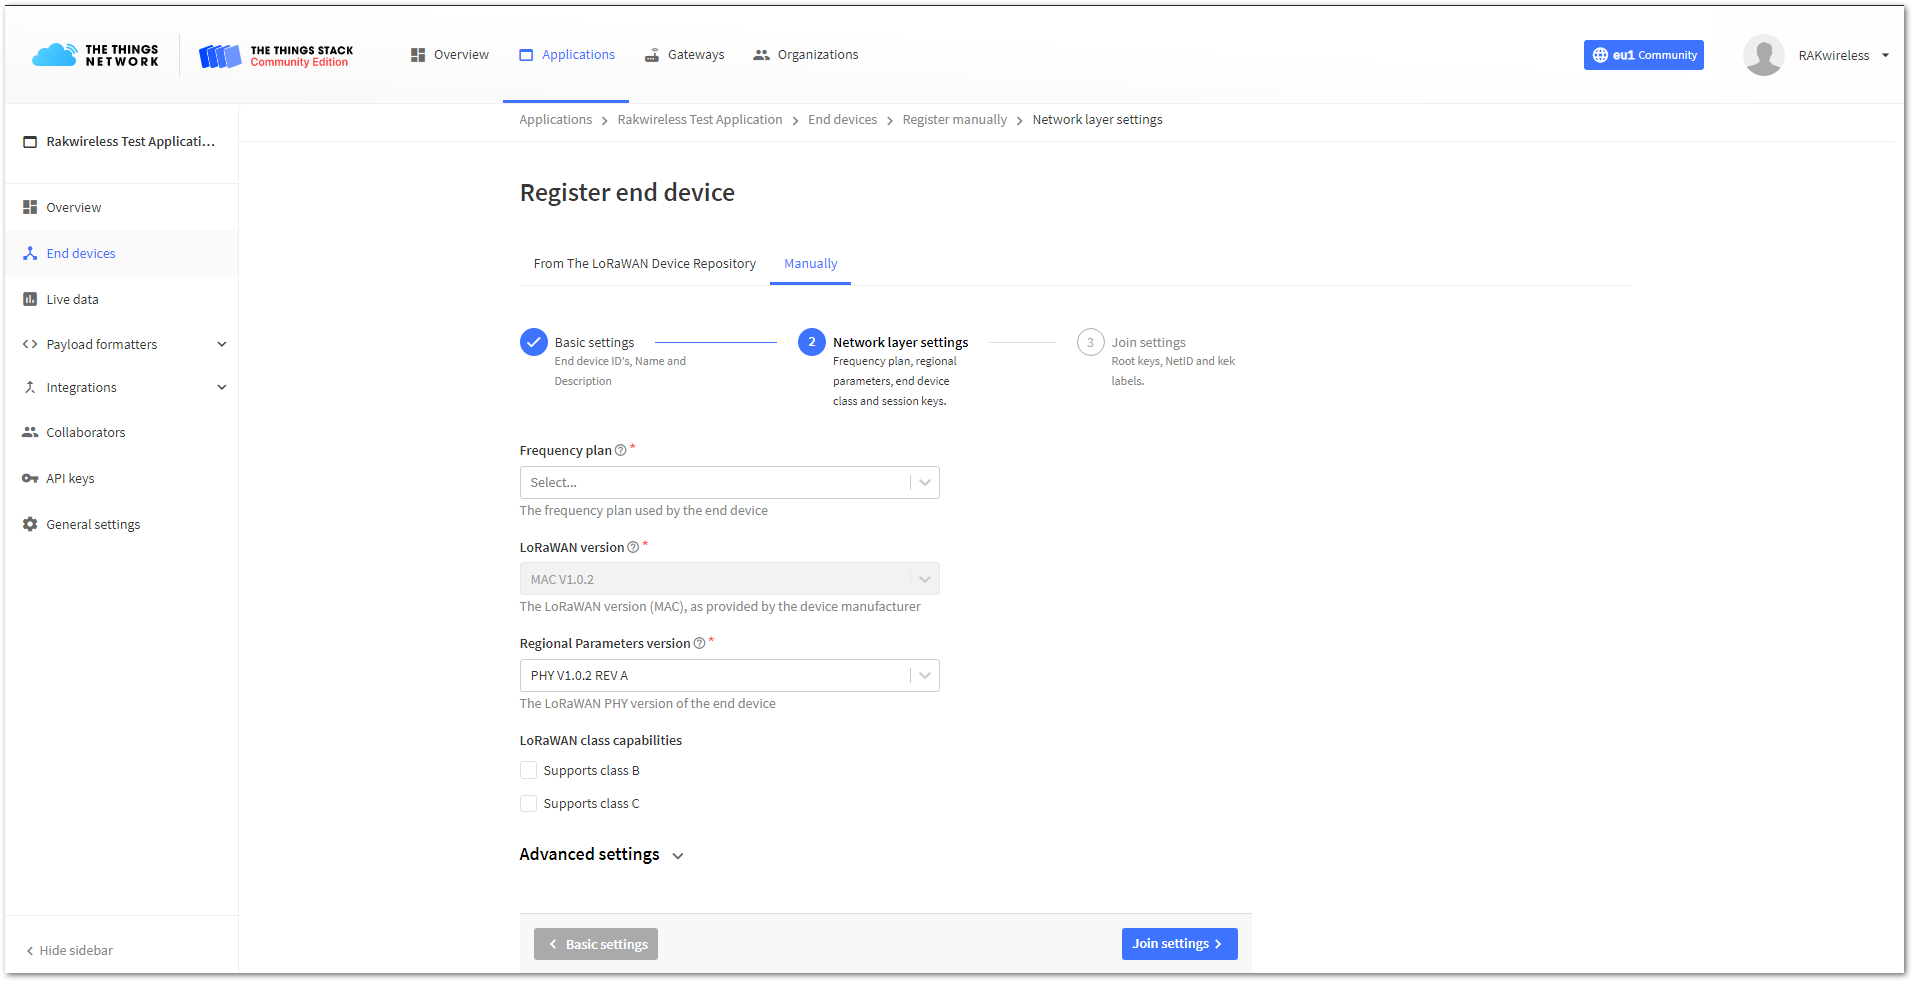
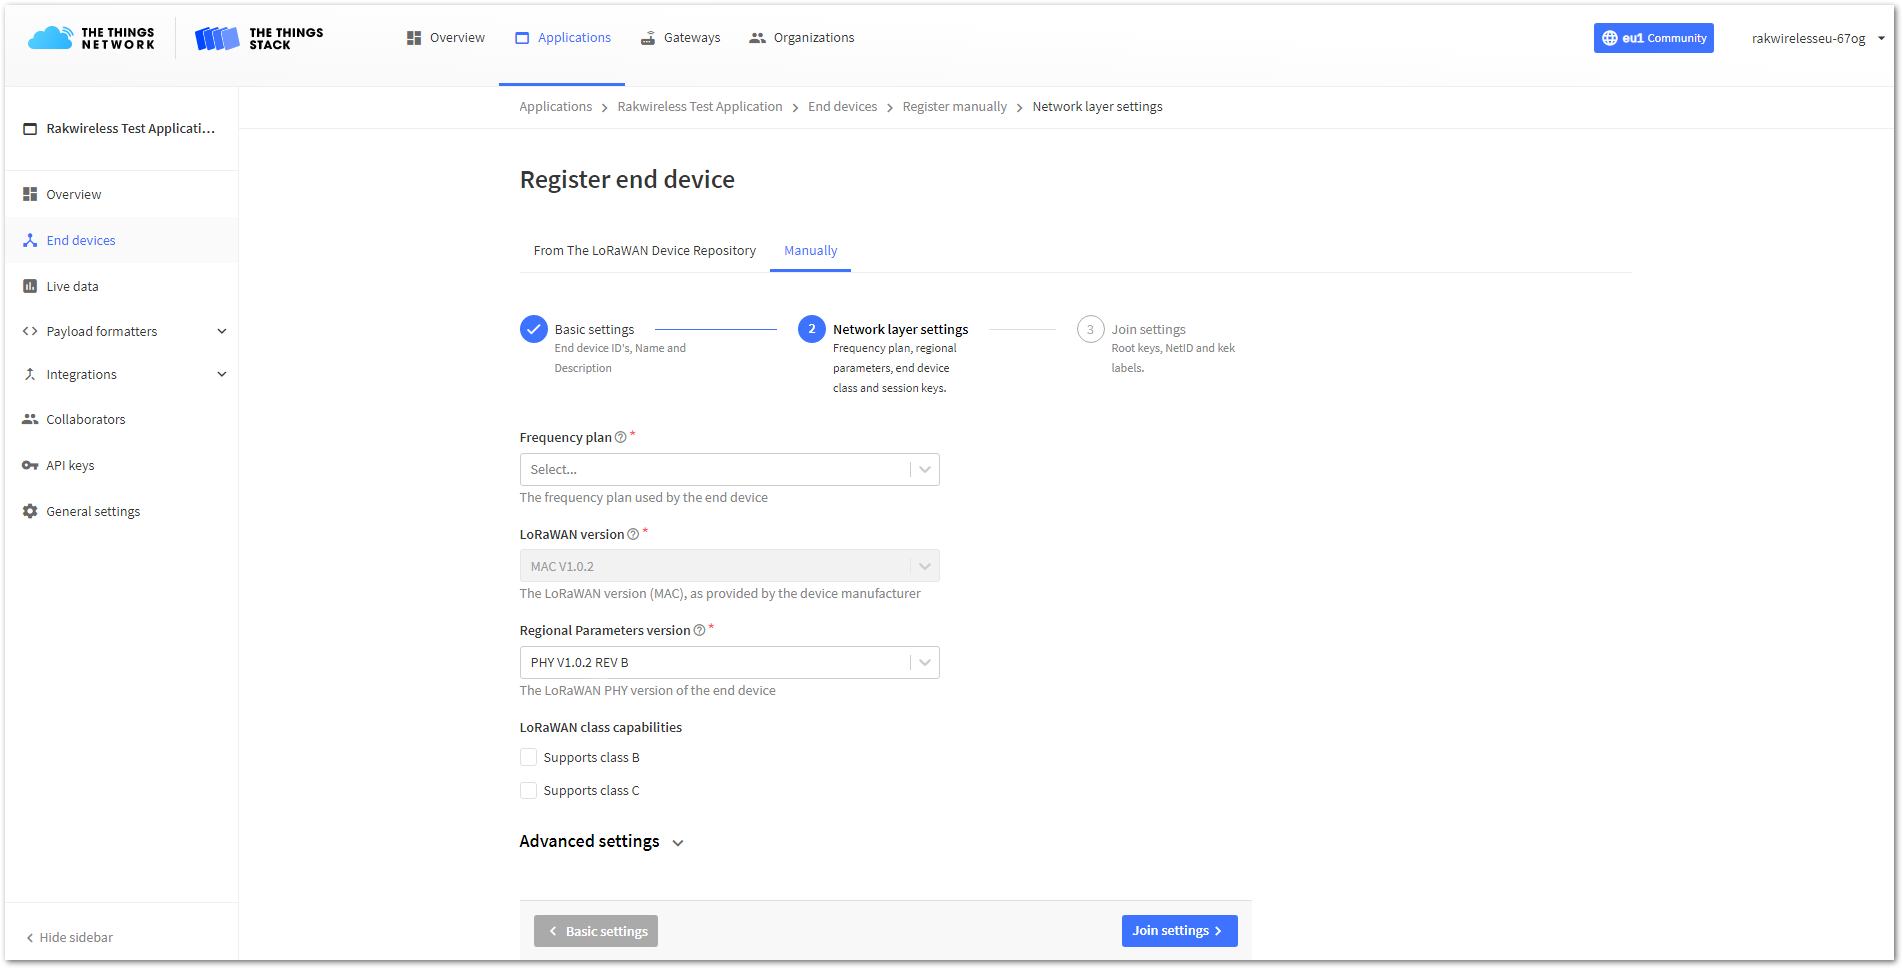
Release (12/15/2021):
- [#532]- Updated RAK7240 Regional Parameters version to PHY V1.0.2 REV B
- [#533] - Added RAK3172 JRL Certification

diff --git a/docs/.vuepress/components/RkCertifications.vue b/docs/.vuepress/components/RkCertifications.vue
@@ -95,6 +95,9 @@ export default {
           case 'LoRaWAN':
             data.img = '/assets/images/certifications/lorawan-certified.png'
             break
+          case 'JRL':
+            data.img = '/assets/images/certifications/JRL.png'
+            break
           default:
             data.img =
               'https://image.shutterstock.com/image-illustration/white-unknown-document-icon-isolated-600w-1517588975.jpg'

diff --git a/docs/Certification/README.md b/docs/Certification/README.md
@@ -75,7 +75,7 @@ The product certification indicates the device has been properly assessed where 
 | <a href="/Product-Categories/WisDuo/RAK4270-Module/Overview/" target="_blank"> RAK4270 </a> |           [](https://downloads.rakwireless.com/LoRa/RAK4270/Certification-Report/CE%20Certification.zip)           |      [](https://downloads.rakwireless.com/LoRa/RAK4270/Certification-Report/FCC%20Certification.zip)       |                                               -                                               |    -    |     [](https://downloads.rakwireless.com/LoRa/RAK4270/Certification-Report/RoHS%20168304609a%20001.pdf)     |                                                     -                                                      |      [](https://downloads.rakwireless.com/LoRa/RAK4270/Certification-Report/RAK4270%28H%29_KC_cert.pdf)      | [](https://downloads.rakwireless.com/LoRa/RAK4270/Certification-Report/REACH%20168304609b%20001-212SVHCs.pdf) | Ongoing | Ongoing |                                                -                                                |
 | <a href="/Product-Categories/WisDuo/RAK4600-Module/Overview/" target="_blank"> RAK4600 </a> |         [](https://downloads.rakwireless.com/LoRa/RAK4600/Certification/RAK4600%20CE%20Certification.zip)          |     [](https://downloads.rakwireless.com/LoRa/RAK4600/Certification/RAK4600%20FCC%20Certification.zip)     |                                               -                                               |    -    |                                                      -                                                      |                                                     -                                                      |                                                      -                                                       |                                                       -                                                       |    -    |    -    |                                                -                                                |
 |  <a href="/Product-Categories/WisDuo/RAK811-Module/Overview/" target="_blank"> RAK811 </a>  |       [](https://downloads.rakwireless.com/LoRa/RAK811/Certification_Report/RAK811%20CE%20Certification.rar)       | [](https://downloads.rakwireless.com/LoRa/RAK811/Certification_Report/RAK811%C2%A0FCC%20Certification.rar) |                                               -                                               |    -    | [](https://downloads.rakwireless.com/LoRa/RAK811/Certification_Report/RAK811%C2%A0ROSH%20Certification.rar) | [](https://downloads.rakwireless.com/LoRa/RAK811/Certification_Report/RAK811%C2%A0MIC%20Certification.rar) | [](https://downloads.rakwireless.com/LoRa/RAK811/Certification_Report/RAK811_KCC%C2%A0%28Certificate%29.pdf) |                                                       -                                                       |    -    |    -    |                                                -                                                |
-| <a href="/Product-Categories/WisDuo/RAK3172-Module/Overview/" target="_blank"> RAK3172 </a> |           [](https://downloads.rakwireless.com/LoRa/RAK3172/Certification/RAK3172_CE_certification.pdf)            |       [](https://downloads.rakwireless.com/LoRa/RAK3172/Certification/RAK3172_FCC_certification.zip)       | [](https://downloads.rakwireless.com/LoRa/RAK3172/Certification/RAK3172_ISED_Certificate.pdf) | [](https://downloads.rakwireless.com/LoRa/RAK3172/Certification/RAK3172_RCM_certification.pdf) |                                                      -                                                      |                                                     -                                                      |        [](https://downloads.rakwireless.com/LoRa/RAK3172/Certification/RAK3172_KC_Certification.pdf)         |                                                       -                                                       |    -    |    -    | [](https://downloads.rakwireless.com/LoRa/RAK3172/Certification/RAK3172_UKCA_certification.pdf) |
+| <a href="/Product-Categories/WisDuo/RAK3172-Module/Overview/" target="_blank"> RAK3172 </a> |           [](https://downloads.rakwireless.com/LoRa/RAK3172/Certification/RAK3172_CE_certification.pdf)            |       [](https://downloads.rakwireless.com/LoRa/RAK3172/Certification/RAK3172_FCC_certification.zip)       | [](https://downloads.rakwireless.com/LoRa/RAK3172/Certification/RAK3172_ISED_Certificate.pdf) | [](https://downloads.rakwireless.com/LoRa/RAK3172/Certification/RAK3172_RCM_certification.pdf) |                                                      -                                                      |        -            |        [](https://downloads.rakwireless.com/LoRa/RAK3172/Certification/RAK3172_KC_Certification.pdf)         |                                                       -                                                       | [](https://downloads.rakwireless.com/LoRa/RAK3172/Certification/RAK3172_JRL_certfication.pdf)  |    -    | [](https://downloads.rakwireless.com/LoRa/RAK3172/Certification/RAK3172_UKCA_certification.pdf) |
 
 
 ## WisLink

diff --git a/docs/Product-Categories/WisDuo/RAK3172-Module/Datasheet/README.md b/docs/Product-Categories/WisDuo/RAK3172-Module/Datasheet/README.md
@@ -7,13 +7,14 @@ tags:
   - wisduo
   - RAK3172
 certifications:
-  - [KCC, https://downloads.rakwireless.com/LoRa/RAK3172/Certification/RAK3172_KC_Certification.pdf]
   - [CE,https://downloads.rakwireless.com/LoRa/RAK3172/Certification/RAK3172_CE_certification.pdf ]
-  - [UKCA, https://downloads.rakwireless.com/LoRa/RAK3172/Certification/RAK3172_UKCA_certification.pdf]
-  - [RCM, https://downloads.rakwireless.com/LoRa/RAK3172/Certification/RAK3172_RCM_certification.pdf]
   - [FCC, https://downloads.rakwireless.com/LoRa/RAK3172/Certification/RAK3172_FCC_certification.zip]
   - [IC, https://downloads.rakwireless.com/LoRa/RAK3172/Certification/RAK3172_ISED_Certificate.pdf]
+  - [JRL, https://downloads.rakwireless.com/LoRa/RAK3172/Certification/RAK3172_JRL_certfication.pdf]
+  - [KCC, https://downloads.rakwireless.com/LoRa/RAK3172/Certification/RAK3172_KC_Certification.pdf]
   - [LoRaWAN, https://downloads.rakwireless.com/LoRa/RAK3172/Certification/RAK3172_lora_alliance_certification.pdf]
+  - [RCM, https://downloads.rakwireless.com/LoRa/RAK3172/Certification/RAK3172_RCM_certification.pdf]
+  - [UKCA, https://downloads.rakwireless.com/LoRa/RAK3172/Certification/RAK3172_UKCA_certification.pdf]
 ---
 
 # RAK3172 WisDuo LPWAN Module Datasheet

diff --git a/docs/Product-Categories/WisNode/RAK7204/Quickstart/README.md b/docs/Product-Categories/WisNode/RAK7204/Quickstart/README.md
@@ -798,7 +798,7 @@ First, log in to the TTNv3. To do so, head to the TTNv3 [site](https://eu1.cloud
 
 - **Frequency plan -** The frequency plan used by the end device. Note that, for this tutorial, the frequency plan used is Europe 863-870&nbsp;MHz (SF9 for RX2 – recommended).
 
-- **Regional Parameters version** - The Regional Parameters specify frequency, dwell time, and other communication settings for different geographical areas. The Regional Parameters version is the version of the LoRa Alliance specification which your device supports. This should be provided by the device manufacturer in a datasheet. For this example, **PHY V1.0.2 REV A** is chosen.
+- **Regional Parameters version** - The Regional Parameters specify frequency, dwell time, and other communication settings for different geographical areas. The Regional Parameters version is the version of the LoRa Alliance specification which your device supports. This should be provided by the device manufacturer in a datasheet. For this example, **PHY V1.0.2 REV B** is chosen.
 
 - **LoRaWAN class capabilities** – Here you can select if your device supports Class B, Class C, or both. 
 
